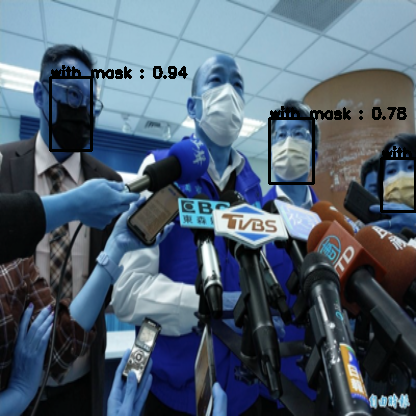
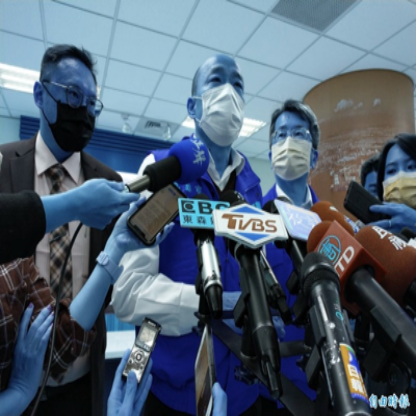
anchors

diff --git a/yolov3/yolo_v3_model.py b/yolov3/yolo_v3_model.py
@@ -3,6 +3,7 @@ import cv2
 import tensorflow as tf
 import numpy as np
 from yolov3.config import anchors, class_ids, class_mapping_decoder, class_mapping_encoder, image_width, image_height, num_class
+from yolov3.data_loader import box_center_to_corner, box_corner_to_center
 
 
 def conv_bn_leaky(x, filters, kernel_size, strides=1, activation=True, bn = True):
@@ -183,7 +184,7 @@ def inference(path, num_classes, model):
         ac = anchors[i].reshape(-1,2)
         decoded_preds = decode_predictions(kq[i], ac, grid_size[i], num_classes)[0]
         confidences = decoded_preds[..., 4]
-        mask = confidences >= 0.9
+        mask = confidences >= 0.5
         decoded_preds = decoded_preds[mask]
         scores = confidences[mask]
 
@@ -193,9 +194,11 @@ def inference(path, num_classes, model):
     # luc nay all dang la 1 ds vs 3 phan tu
     # can noi tat ca cac phan tu cua ds trong ds
     all = np.array(all)
-    nms = tf.image.non_max_suppression(
-        boxes=all[..., 0:4], scores=all[...,4], max_output_size=20, iou_threshold=0.5
-    )
+    if all.shape[0] != 0:
+        nms = tf.image.non_max_suppression(
+        boxes=box_center_to_corner(all[..., 0:4]), scores=all[...,4], max_output_size=20, iou_threshold=0.5)
+    else:
+        nms = []
     for j in nms:
         x,y,w,h = all[j][:4] * 416
         c = np.round(all[j][4],2)
